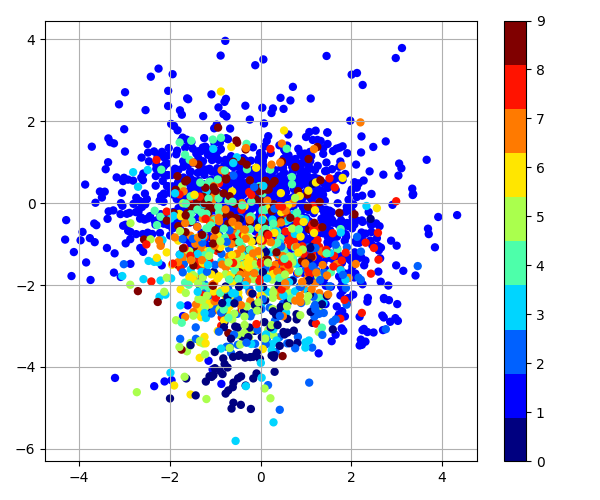
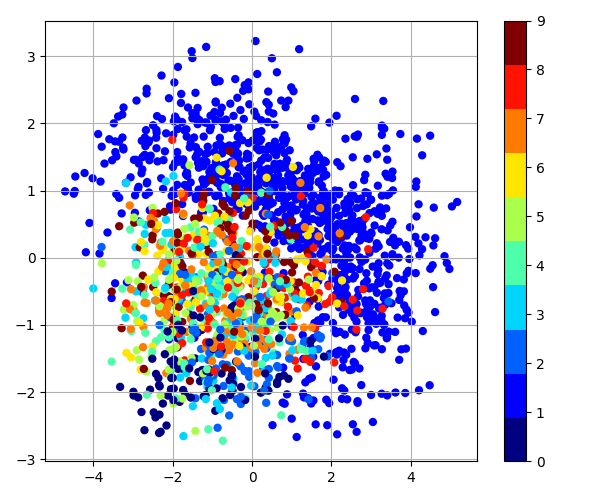
20190909

diff --git a/run.py b/run.py
@@ -28,7 +28,7 @@ if __name__ == '__main__':
 
     parser = argparse.ArgumentParser()
     parser.add_argument('--datnorm', type=bool, default=True, help='Data normalization')
-    parser.add_argument('--z_dim', type=int, default=20, help='Dimension of latent vector')
+    parser.add_argument('--z_dim', type=int, default=2, help='Dimension of latent vector')
     parser.add_argument('--lr', type=int, default=1e-4, help='Learning rate for training')
     parser.add_argument('--epoch', type=int, default=100, help='Training epoch')
     parser.add_argument('--batch', type=int, default=128, help='Mini batch size')
